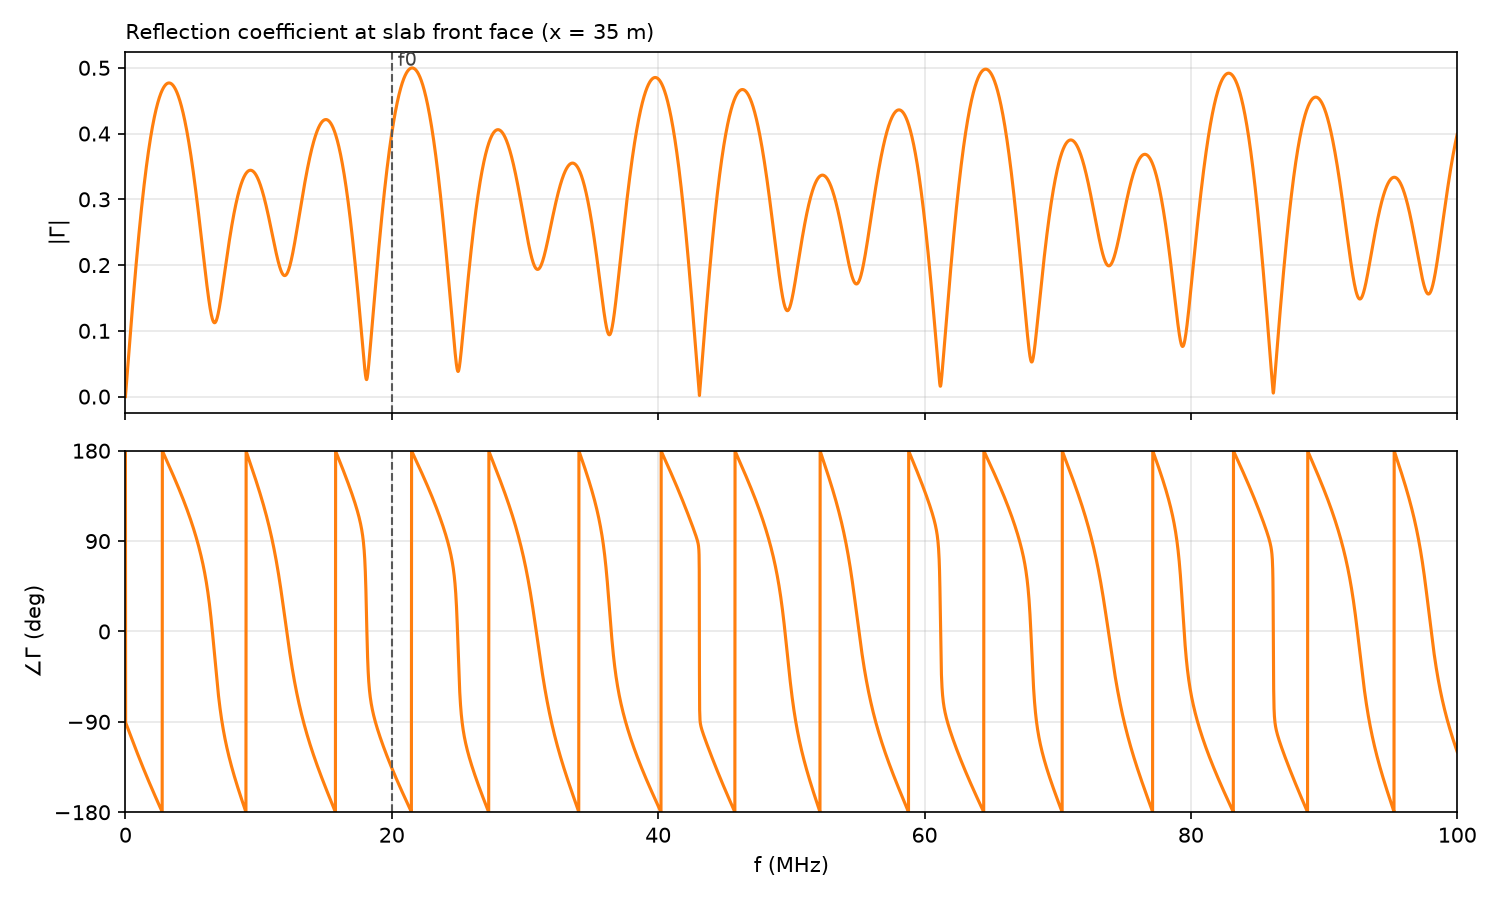
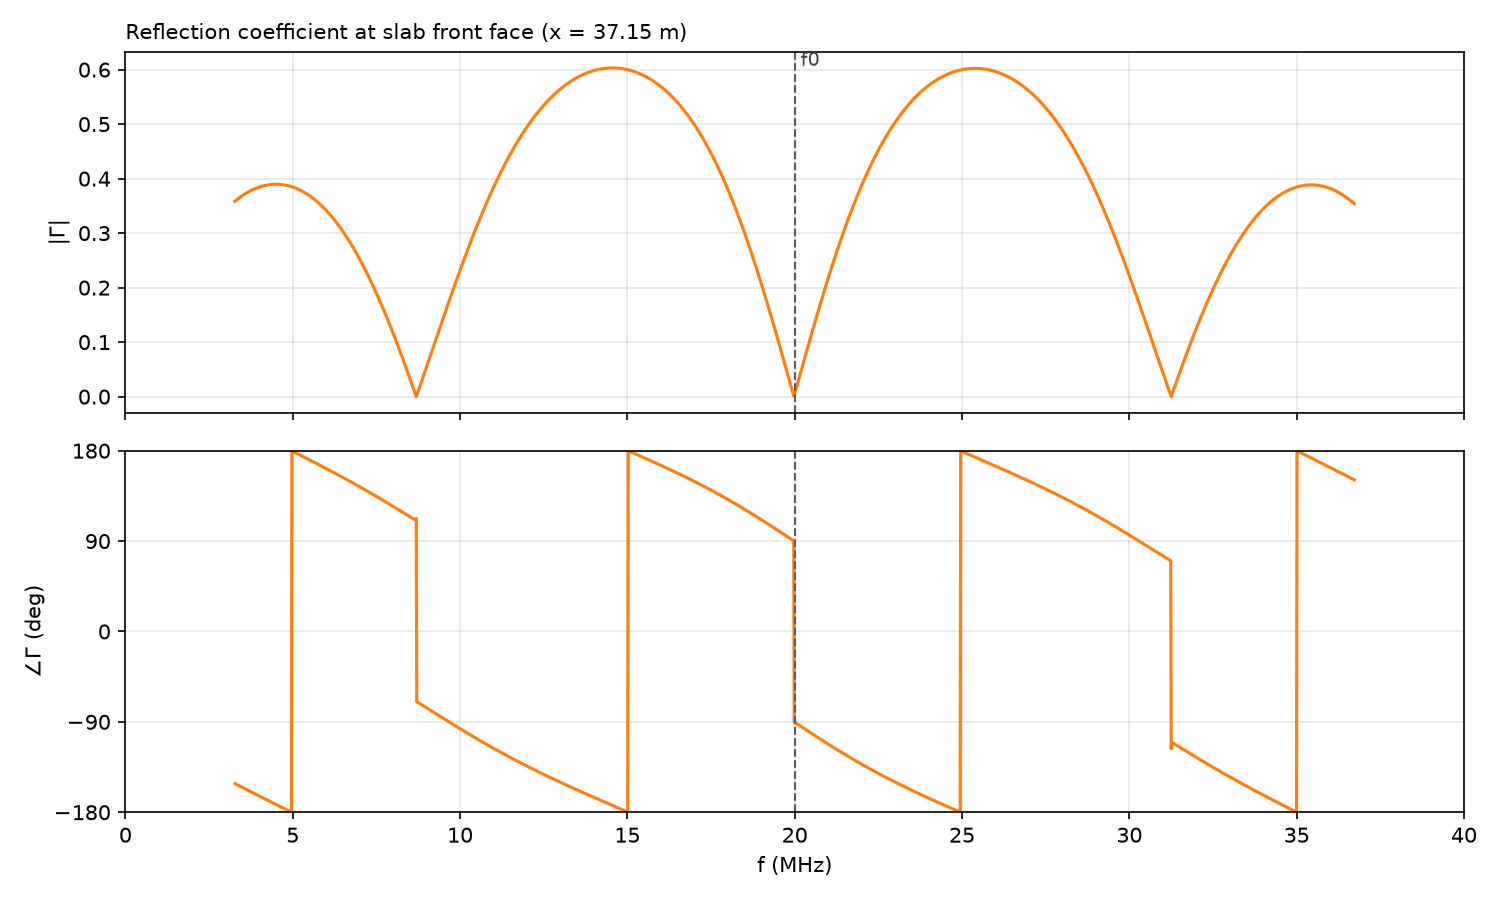
Added Sandwich dielectric stack

diff --git a/FDTD_Proj/fdtd_main.py b/FDTD_Proj/fdtd_main.py
@@ -19,9 +19,9 @@ S = 1 # Courant number for stability
 dt = S * dx * np.sqrt(EPSR) / C # Time step in seconds
 
 t = 0 # Initialize time
-tmax = 0.8e-6 # Maximum simulation time in seconds (long enough for the slab echoes to die out)
-tau = 5e-9 # Pulse width in seconds
-t0 = 5*tau # Time delay for the pulse
+tmax = 1.0e-6 # Maximum simulation time in seconds (long enough for the slab echoes to reach the probe and die out)
+tau = 1/f0 # Pulse width in seconds (~1 carrier period, so several cycles fit under the envelope)
+t0 = 4*tau # Time delay for the pulse (pulse starts at ~1e-7 of its peak)
 def gaussian(t):
     return np.exp(-((t-t0)/tau)**2) * np.cos(2*np.pi*f0*(t-t0))  # Gaussian pulse centered at t=t0 with width tau
 N = int(xmax/dx) # Number of grid points
@@ -30,11 +30,17 @@ E = np.zeros((N, 3)) # Initialize electric field array, columns: [n-1, n, n+1]
 
 # Relative permittivity at each grid point
 eps = np.full(N, EPSR, dtype=float) # air everywhere (float so values like 2.5 are kept)
-eps[(x >= 35) & (x < 40)] = EPSRA # Region A: 35 m to 40 m
-eps[(x >= 40) & (x < 50)] = EPSRB # Region B: 40 m to 50 m
+x_slab = 40 - 2.85 # Front face of the dielectric stack in meters
+d_A = 2.65 # Thickness of each A layer in meters
+d_B = 4.33 # Thickness of the B layer in meters
+stack = [(EPSRA, d_A), (EPSRB, d_B), (EPSRA, d_A)] # A B A stack, front to back: (eps_r, thickness)
+x_layer = x_slab
+for epsr_layer, d_layer in stack:
+    eps[(x >= x_layer) & (x < x_layer + d_layer)] = epsr_layer
+    x_layer += d_layer
 x_src = 1.0 # Soft source location in meters
 i_src = int(round(x_src/dx))
-x_p = 20.0 # Probe location in meters (in air, in front of the slab)
+x_p = 20.0 # Probe location in meters (in air, must be in front of the slab)
 i_p = int(round(x_p/dx))
 probe = [] # E at the probe, every time step
 
@@ -68,17 +74,22 @@ snap_times = np.array(snap_times)
 # ---------------- Reflection coefficient Gamma(f) ----------------
 probe = np.array(probe)
 tt = (np.arange(len(probe)) + 1)*dt # Time of each probe sample
-# Incident and reflected pulses are well separated in time at the probe, so split the
-# signal at the moment the pulse peak reaches the slab front face (x = 35 m)
-t_split = t0 + (35 - x_src)/C
-inc = np.where(tt < t_split, probe, 0)
-refl = np.where(tt >= t_split, probe, 0)
+# The long pulse overlaps its own reflection at the probe, so the incident wave can't be
+# cut out in time. Instead use the fact that with S=1 in air the grid moves the wave
+# exactly one cell per step: the incident field at the probe is the source pulse
+# (half amplitude, the soft source sends half each way) delayed by the travel time.
+inc = 0.5*gaussian(tt - (i_p - i_src)*dt + 0.5*dt)
+refl = probe - inc # Reflected wave only
 
 nfft = 2**21 # Zero-pad for a fine frequency grid
 f = np.fft.rfftfreq(nfft, dt)
 k0 = 2*np.pi*f/C
+I_f = np.fft.rfft(inc, nfft)
+# Only trust frequencies where the pulse has real energy (about 3-37 MHz for tau = 1/f0)
+valid = np.abs(I_f) > 1e-3*np.abs(I_f).max()
 # Phase shift moves the reference from the probe to the slab front face
-Gamma = np.fft.rfft(refl, nfft)/np.fft.rfft(inc, nfft) * np.exp(2j*k0*(35 - x_p))
+Gamma = np.full(len(f), np.nan, dtype=complex)
+Gamma[valid] = np.fft.rfft(refl, nfft)[valid]/I_f[valid] * np.exp(2j*k0[valid]*(x_slab - x_p))
 i0 = np.argmin(np.abs(f - f0))
 print(f'Gamma at f0 = {f0/1e6:g} MHz: |Gamma| = {abs(Gamma[i0]):.4f}, '
       f'angle = {np.degrees(np.angle(Gamma[i0])):.2f} deg')
@@ -137,17 +148,17 @@ def update(k):
 anim = FuncAnimation(fig2, update, frames=len(snapshots), interval=30, blit=False)
 
 # Frequency response of the reflection coefficient
-band = f <= 100e6
+band = f <= 40e6
 fig3, (ax3a, ax3b) = plt.subplots(2, 1, figsize=(10, 6), sharex=True)
 ax3a.plot(f[band]/1e6, np.abs(Gamma[band]), color='C1', lw=1.5)
 ax3a.set_ylabel('|Γ|')
-ax3a.set_title('Reflection coefficient at slab front face (x = 35 m)', loc='left', fontsize=10)
+ax3a.set_title(f'Reflection coefficient at slab front face (x = {x_slab:g} m)', loc='left', fontsize=10)
 ax3b.plot(f[band]/1e6, np.degrees(np.angle(Gamma[band])), color='C1', lw=1.5)
 ax3b.set_ylabel('∠Γ (deg)')
 ax3b.set_ylim(-180, 180)
 ax3b.set_yticks([-180, -90, 0, 90, 180])
 ax3b.set_xlabel('f (MHz)')
-ax3b.set_xlim(0, 100)
+ax3b.set_xlim(0, 40)
 for ax in (ax3a, ax3b):
     ax.axvline(f0/1e6, color='0.35', lw=1, ls='--')
     ax.grid(alpha=0.3)
